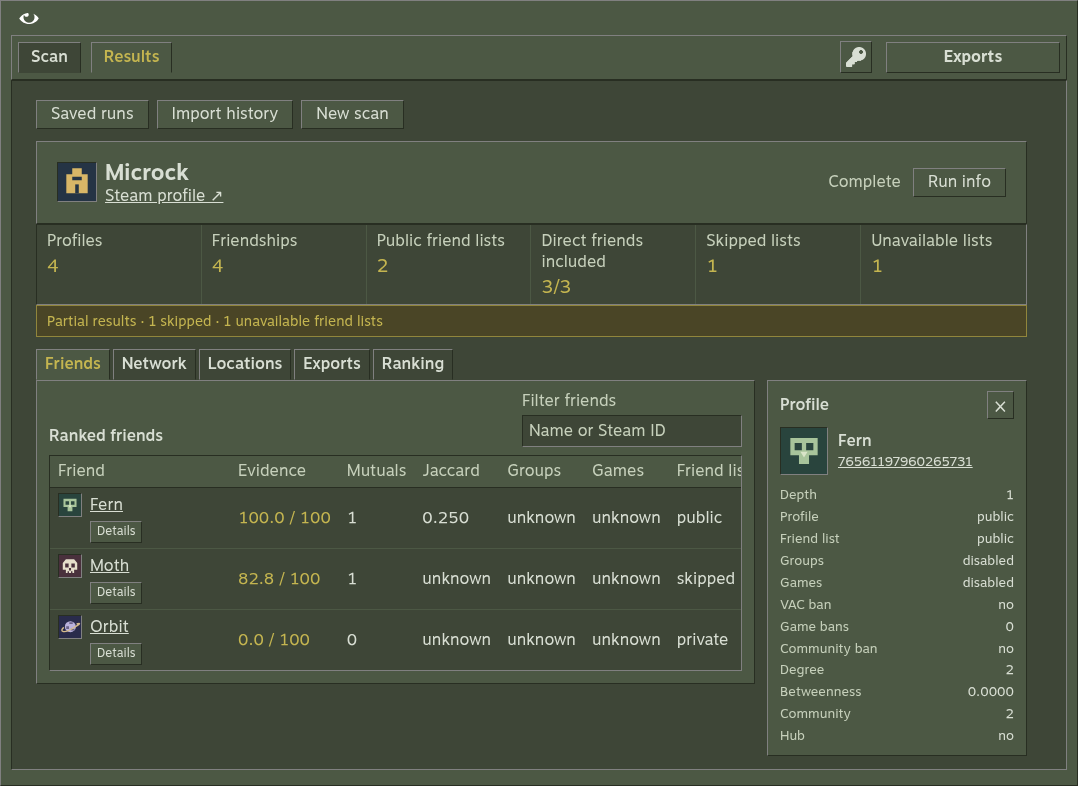
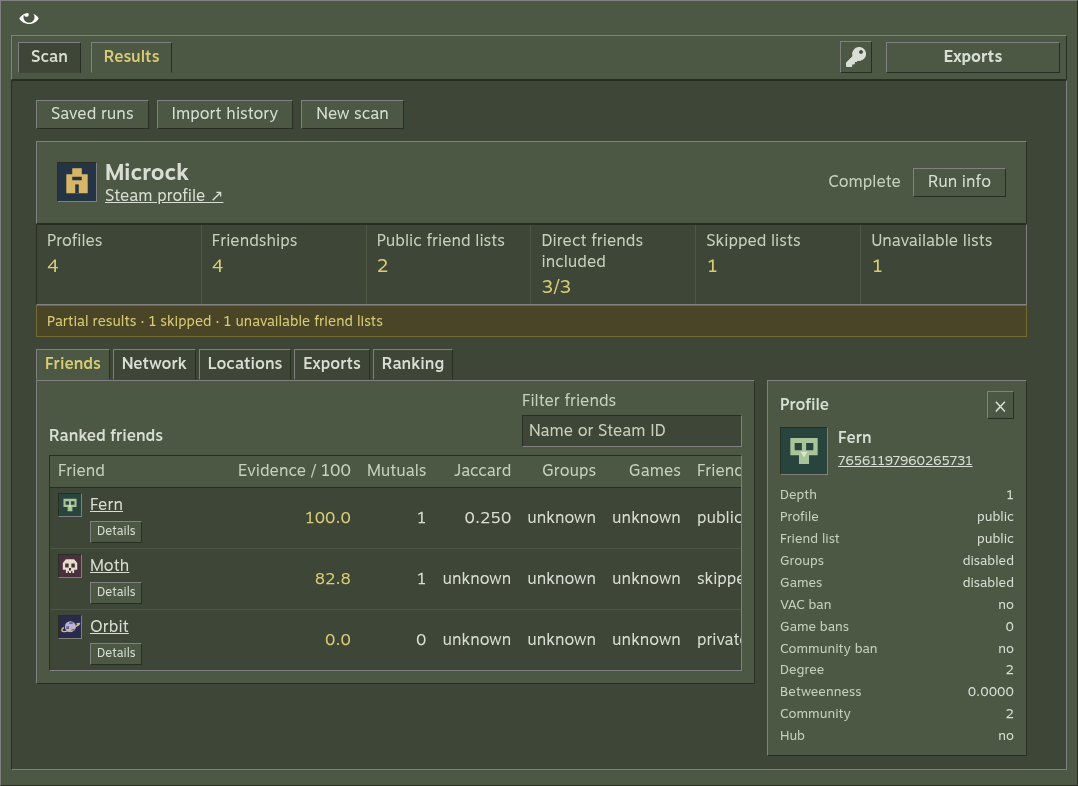
fix(ui): polish classic Steam contrast and controls

diff --git a/ui/style.css b/ui/style.css
@@ -6,7 +6,7 @@
   color-scheme: dark;
   --LightGreenBG: #5a6a50; --GreenBG: #4c5844; --DarkGreenBG: #3e4637;
   --BevelLight: #808080; --BevelDark: #282e22; --Rule: #5d6a53;
-  --OffWhite: #d8ded3; --Label: #c6d0bb; --Maize: #c4b550; --MaizeBG: #91863c; --FullGreen: #7ea64b;
+  --OffWhite: #d8ded3; --Label: #c6d0bb; --Maize: #d8cc75; --MaizeBG: #746b30; --FullGreen: #7ea64b;
   --Outset: var(--BevelLight) var(--BevelDark) var(--BevelDark) var(--BevelLight);
   --Inset: var(--BevelDark) var(--BevelLight) var(--BevelLight) var(--BevelDark);
   --Mono: 'Lucida Console', 'Courier New', monospace;
@@ -80,7 +80,7 @@ body.desktop main { flex: 1; min-height: 0; }
 .field { display: grid; grid-template-columns: 129px 130px; gap: 0; align-items: center; min-height: 32px; }
 .field input { width: 130px; }
 #depth-buttons { display: flex; justify-self: end; }
-#depth-buttons button { width: 20px; height: 32px; min-height: 0; padding: 0; }
+#depth-buttons button { width: 24px; height: 32px; min-height: 0; padding: 0; }
 #depth-buttons button[aria-pressed='true'] { color: var(--Maize); background: var(--DarkGreenBG); border-color: var(--Inset); }
 .info { display: inline-flex; align-items: center; justify-content: center; width: 14px; height: 14px; color: var(--GreenBG); background: var(--OffWhite); border-radius: 50%; font: bold 11px/1 Arial, sans-serif; vertical-align: middle; cursor: help; }
 #apply-settings { position: absolute; right: 16px; bottom: 14px; font-size: 14px; }
@@ -107,7 +107,7 @@ body.desktop main { flex: 1; min-height: 0; }
 .target-row input { height: 24px; min-height: 0; padding: 0 4px; }
 #lookup-target { width: 24px; height: 24px; font-size: 20px; }
 .identity { display: flex; flex-direction: column; align-items: center; gap: 4px; padding-top: 4px; }
-.target-name { width: 100%; min-height: 32px; font-size: 22px; font-weight: 700; text-align: center; overflow-wrap: anywhere; }
+.target-name { width: 100%; min-height: 32px; font-size: 22px; line-height: 1.4; font-weight: 700; text-align: center; overflow-wrap: anywhere; }
 .avatar { display: block; width: 210px; height: 210px; max-width: 100%; object-fit: cover; background: var(--DarkGreenBG); border: 1px solid; border-color: var(--Inset); }
 .target-actions { display: grid; justify-items: center; gap: 8px; margin-top: 12px; }
 #scan-button { width: 188px; max-width: 100%; height: 36px; font-size: 20px; font-weight: 500; }
@@ -130,7 +130,7 @@ body.desktop main { flex: 1; min-height: 0; }
 .report-identity > .profile-avatar { width: 40px; height: 40px; }
 .weights { display: grid; grid-template-columns: repeat(auto-fit, minmax(120px, 1fr)); gap: 8px; margin-top: 8px; }
 .weights label { display: grid; gap: 3px; }
-dialog { max-width: calc(100% - 32px); padding: 18px; color: var(--OffWhite); background: var(--GreenBG); border: 1px solid; border-color: var(--Outset); }
+dialog { max-width: calc(100% - 32px); padding: 18px; color: var(--OffWhite); background: var(--GreenBG); border: 1px solid; border-color: var(--Outset); overscroll-behavior: contain; }
 dialog::backdrop { background: #0008; }
 #scan-ranking-dialog { width: 720px; }
 #run-info-dialog { width: 640px; }
@@ -169,6 +169,7 @@ td:first-child { min-width: 180px; white-space: normal; overflow-wrap: anywhere;
 tbody tr:last-child td { border-bottom: 0; }
 tbody tr:hover { background: var(--GreenBG); }
 #friend-rows td:nth-child(2) { color: var(--Maize); }
+#friends-view th:nth-child(n+2):nth-child(-n+6), #friend-rows td:nth-child(n+2):nth-child(-n+6) { text-align: right; }
 .graph-toolbar { display: flex; align-items: center; gap: 4px; margin-bottom: 8px; }
 .graph-toolbar button { min-width: 28px; padding-inline: 8px; }
 #graph-count { margin-left: auto; color: var(--Label); }
@@ -202,6 +203,7 @@ tbody tr:hover { background: var(--GreenBG); }
 }
 @media (max-width: 720px) {
   body { min-height: 100dvh; }
+  input, select { font-size: 16px; }
   main { min-height: 0; padding: 14px 12px; margin: 0 8px 8px; }
   .toolbar { margin-inline: 8px; gap: 6px; padding-inline: 4px; }
   .workspace-tabs { gap: 4px; }
@@ -227,6 +229,8 @@ tbody tr:hover { background: var(--GreenBG); }
 }
 @media (forced-colors: active) {
   input[type='checkbox'] { appearance: auto; background: none; }
+  /* Keep the original white bitmap icons readable on either system canvas color. */
+  .brand, .icon-button { forced-color-adjust: none; background: var(--DarkGreenBG); }
   .segmented input:checked + span, button[aria-current='page'], button[aria-pressed='true'] { outline: 2px solid Highlight; outline-offset: -2px; }
 }
 
@@ -247,9 +251,9 @@ tbody tr:hover { background: var(--GreenBG); }
 .profile-inspector { padding: 10px 12px; }
 .inspector-heading { display: flex; align-items: center; justify-content: space-between; margin-bottom: 8px; }
 .inspector-heading button { min-height: 24px; padding: 0 6px; font-size: 20px; }
-.inspector-identity { display: flex; align-items: center; gap: 10px; margin-bottom: 12px; }
+.inspector-identity { display: flex; align-items: start; gap: 10px; margin-bottom: 12px; }
 .inspector-identity .profile-avatar { width: 48px; height: 48px; }
-.inspector-identity h2 { overflow-wrap: anywhere; }
+.inspector-identity h2 { line-height: 1.4; overflow-wrap: anywhere; }
 .inspector-identity a { font-size: 13px; }
 #inspect-facts { display: grid; grid-template-columns: auto minmax(0, 1fr); gap: 5px 10px; font-size: 13px; }
 #inspect-facts dd { font-size: inherit; margin: 0; color: var(--OffWhite); text-align: right; overflow-wrap: anywhere; }
@@ -266,6 +270,7 @@ tbody tr:hover { background: var(--GreenBG); }
 #graph text { fill: var(--OffWhite); font: 12px MotivaSans, Arial, sans-serif; pointer-events: none; }
 @media (max-width: 1000px) {
   #coverage { grid-template-columns: repeat(3, minmax(0, 1fr)); }
+  #coverage div:nth-child(3n) { border-right: 0; }
   .report-workspace:has(.profile-inspector:not([hidden])) { grid-template-columns: minmax(0, 1fr); }
   .profile-inspector { max-width: 100%; }
 }
@@ -278,4 +283,5 @@ tbody tr:hover { background: var(--GreenBG); }
   #run-search { max-width: 100%; width: 170px; }
   #coverage { grid-template-columns: repeat(2, minmax(0, 1fr)); }
   #coverage div:nth-child(3n) { border-right: 1px solid var(--GreenBG); }
+  #coverage div:nth-child(2n) { border-right: 0; }
 }

diff --git a/ui/index.html b/ui/index.html
@@ -175,7 +175,7 @@
         <div class="report-workspace"><div class="report-views">
         <section id="friends-view" class="view">
           <div class="section-line"><h2>Ranked friends</h2><label class="search-label">Filter friends<input id="friend-search" type="search" placeholder="Name or Steam ID"></label></div>
-          <div class="table-wrap"><table><thead><tr><th scope="col">Friend</th><th scope="col" title="Relative network evidence, not a friendship probability">Evidence</th><th scope="col">Mutuals</th><th scope="col">Jaccard</th><th scope="col">Groups</th><th scope="col">Games</th><th scope="col">Friend list</th></tr></thead><tbody id="friend-rows"></tbody></table></div>
+          <div class="table-wrap"><table><thead><tr><th scope="col">Friend</th><th scope="col" title="Relative network evidence on a 0 to 100 scale, not a friendship probability">Evidence / 100</th><th scope="col">Mutuals</th><th scope="col">Jaccard</th><th scope="col">Groups</th><th scope="col">Games</th><th scope="col">Friend list</th></tr></thead><tbody id="friend-rows"></tbody></table></div>
           <p id="friend-empty" class="hint" hidden>No friends match this filter.</p>
         </section>
         <section id="network-view" class="view" hidden>

diff --git a/ui/app.ts b/ui/app.ts
@@ -151,8 +151,8 @@ function renderFriends() {
   for (const friend of friends) {
     const row = document.createElement("tr"); const profile = playerCell(row, friend.id, friend.name, players.get(friend.id)?.avatar ?? null);
     const inspect = document.createElement("button"); inspect.type = "button"; inspect.className = "inspect-button"; inspect.textContent = "Details";
-    inspect.setAttribute("aria-label", `Inspect ${friend.name}`); inspect.addEventListener("click", () => inspectNode(friend.id)); profile.append(inspect);
-    cell(row, `${friend.evidenceScore.toFixed(1)} / 100`); cell(row, friend.mutual); cell(row, number(friend.jaccard, 3));
+    inspect.setAttribute("aria-label", `Details for ${friend.name}`); inspect.addEventListener("click", () => inspectNode(friend.id)); profile.append(inspect);
+    cell(row, friend.evidenceScore.toFixed(1)); cell(row, friend.mutual); cell(row, number(friend.jaccard, 3));
     cell(row, number(friend.sharedGroups)); cell(row, number(friend.sharedGames)); cell(row, friend.friendsStatus); rows.append(row);
   }
   get("friend-empty").hidden = friends.length > 0;

diff --git a/docs/verification.md b/docs/verification.md
@@ -40,6 +40,40 @@ All current captures were opened and visually inspected:
 - [Saved-run ranking](screenshots/ranking.png)
 - [Run info](screenshots/run-info.png)
 
-The screenshots use distinct sample avatars from the HTTP fixture. They are not live Steam accounts. No authenticated live Steam scan has been run; the current environment and project have no configured Steam API key. Native Windows/macOS launches were not tested locally. CI verifies the locked install, types, lint and tests on Linux, Windows and macOS; that does not establish native desktop behavior on those systems.
+The screenshots use distinct sample avatars from the HTTP fixture. They are not live Steam accounts. No authenticated live Steam scan has been run. A local ignored Steam API key is now configured and its loading has been checked, but provider acceptance and a live scan remain unverified. Native Windows/macOS launches were not tested locally. CI verifies the locked install, types, lint and tests on Linux, Windows and macOS; that does not establish native desktop behavior on those systems.
+
+## Interface review
+
+Scope: the current Scan, Results, History, connection, graph, profile inspector and dialogs, using the supplied green Steam reference. This is the running application review, not a change review. The stack remains plain TypeScript and CSS. The product contract, this verification document and the workspace instructions establish the design conventions. Original fonts, source assets, olive surfaces, joined tabs and beveled controls remain intentional.
+
+| Domain | Evidence inspected | Result |
+| --- | --- | --- |
+| Accessibility | Keyboard focus, native dialog restoration, arrow-key table scrolling, accessibility-tree names, forced colors and depth target dimensions | Corrected depth target width, Details name and high-contrast icons |
+| Layout | Desktop/narrow views, long and unbroken names, report column alignment and coverage separators | Corrected numeric alignment, long-name avatar alignment and wrapped coverage borders |
+| Writing | Scan/report/dialog labels and evidence scale | Removed the repeated score denominator from each friend row |
+| Typography | Bundled fonts, narrow form sizes and long-name wrapping | Corrected mobile inputs and wrapped identity line heights |
+| Colors | Computed foreground/background pairs, including selected tabs, notices and table rows | Corrected gold text and selection contrast |
+| UI polish | Original eye size, square controls, tabs, selected states and source icons | Retained the reference structure; no decorative motion added |
+
+All findings below were corrected:
+
+| Severity | Domain | Location | Before | After | Why |
+| --- | --- | --- | --- | --- | --- |
+| HIGH | Colors | `ui/style.css:9` | Gold `#c4b550` on olive `#4c5844` measured 3.61:1; white selection text measured 3.70:1 | Gold `#d8cc75` measures 4.60:1; white on selection `#746b30` measures 5.40:1 | Normal text must remain readable in active and selected states |
+| HIGH | Accessibility | `ui/style.css:83` | Adjacent depth buttons were 20px wide without spacing | Buttons measure 24 x 32px | Adjacent targets need distinct usable hit areas |
+| MEDIUM | Typography | `ui/style.css:206` | Narrow inputs inherited 13-16px text depending on their section | Narrow inputs/selects consistently use 16px | Avoid small input text and unwanted iOS input zoom |
+| MEDIUM | Accessibility | `ui/style.css:233` | White brand/bitmap icons disappeared against a forced white canvas | Original icons keep a dark backing in forced colors | The icon-only controls must stay visible in high contrast |
+| LOW | Layout / writing | `ui/style.css:172`, `ui/index.html:178`, `ui/app.ts:155` | Numeric values aligned left and every score repeated `/ 100` | Values and headers align right; the scale appears once in the heading | Compare rows more easily with less repeated text |
+| LOW | Layout / typography | `ui/style.css:110`, `ui/style.css:256` | Long inspector names centered their avatar midway through wrapped text; line height was 1.3 | Avatar aligns with the first line; wrapped identity line height is 1.4 | Keep the avatar tied to the start of the name and wrapped text readable |
+| LOW | Accessibility | `ui/app.ts:154` | Visible Details button announced Inspect | Announces Details for the profile name | Accessible names include their visible labels |
+| LOW | Layout | `ui/style.css:273`, `ui/style.css:286` | Coverage borders continued at some wrapped row ends | Three- and two-column row ends omit their trailing border | Keep the compact coverage table consistent across widths |
+
+Additional browser checks used real local HTTP fixtures with deliberately long names at 320px, 1078px and a 539 x 300px viewport equivalent to the reference window's 200% zoom layout. They found no page overflow or unnamed exposed controls. Native dialogs returned focus to their trigger; ArrowRight scrolled the friends table. Rendered normal-text pairs measured at least 4.60:1. Forced colors were checked through Chrome's emulation; this is not a claim of full WCAG conformance.
+
+Screenshot capture now waits for the visible images to finish loading and for the bundled fonts. The first fresh Results capture caught the transient empty avatar frames before their HTTP responses arrived; it was replaced after adding the readiness check. The final browser/desktop captures retain the fixture avatars throughout.
+
+Not verified: an actual iOS Safari session, physical screen-reader speech output, native Windows/macOS high-contrast rendering, or live Steam data. The simplification pass found only mechanical styling/label changes, so there was no substantive application logic to refactor and no review agents were dispatched.
+
+Verdict: Approve within the inspected scope. No unresolved high-severity findings in that scope.
 
 Current saved settings require `skipPrivate`; checkpoints also require a nullable avatar field. Earlier local files remain untouched and are reported as invalid. Start a fresh scan or explicitly save a new settings profile; there is no automatic migration.

diff --git a/docs/product-contract.md b/docs/product-contract.md
@@ -35,6 +35,7 @@ Vapora runs locally on Node.js 24 and uses TypeScript and Effect 4. The Python i
 - Provide browser and Electron desktop launches using the same server, scanner and renderer. Desktop window buttons minimize, maximize/restore and close the real window; Open output folder opens the selected run directory or outputs root. Browser mode hides native window controls and provides export downloads. Isolate the desktop renderer from Node and expose only fixed, main-frame-authorized IPC operations. Closing desktop cancels active collection and saves the checkpoint.
 - Bind the browser server to loopback, validate Host and mutation origins, keep API keys out of report files and browser responses, and restrict file downloads to known run artifacts.
 - Run automated domain, provider, persistence, CLI, and HTTP integration checks against real local fixtures. Run browser checks at desktop and narrow widths. CI verifies the locked dependency install, types, lint, and tests.
+- Preserve the classic olive surfaces, original fonts/assets and compact structure while keeping normal text contrast at least 4.5:1. Adjacent depth controls are at least 24px wide; inputs use at least 16px text on narrow screens. Numeric table columns align with their headings, and the evidence scale appears once in its column heading.
 - Keep CI checkout credentials out of subsequent dependency and project execution. Enforce safety comments for assertions, including comments before exported declarations.
 
 ## Analysis limits
